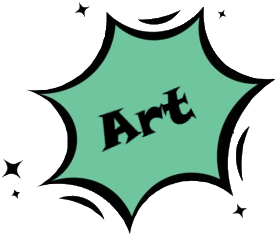
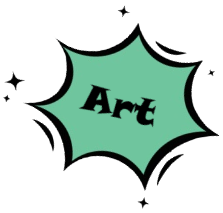
Updated the design of the first screen

diff --git a/full_trivia_gui.py b/full_trivia_gui.py
@@ -17,6 +17,8 @@ class QuestionUI:
         # create quiz base/window
         self._window = Tk()
         self._window.geometry("900x600")
+        self._window.title("Trivia Time!")
+        self._window.resizable(False, False)
 
         self._fframe = Frame(self._window, width=900, height=600)
         self._fframe.pack(fill=Y, anchor="center")
@@ -172,72 +174,69 @@ class QuestionUI:
 
     def first_screen(self):
         """docstring"""
-        x_pos = self._fframe.winfo_width() // 2
-        y_pos = self._fframe.winfo_height() // 2
-
-        homepg_img = Image.open("Assets/homepage_image.jpg")
-        homepg_resize = homepg_img.resize((900, 600))
-        homepg_final = ImageTk.PhotoImage(homepg_resize)
-
-        homepg_label = Label(self._fframe, image=homepg_final)
-        homepg_label.place(x=x_pos, y=y_pos)
-
-        blue_bckgrd = Label(homepg_label, width=113, height=33, bg="#AFEEEE")
-        blue_bckgrd.place(x=x_pos + 50, y=y_pos + 50, anchor="nw")
+        background_image = PhotoImage(file="Assets/background_image_with_badges.png")
+        background = Label(self._fframe, image=background_image)
+        background.image = background_image
+        background.place(x=0, y=0)
 
         books_img = Image.open("Assets/pink_bubble_books.png")
-        books_resize = books_img.resize((150, 150))
+        books_resize = books_img.resize((150, 118))
         books_final = ImageTk.PhotoImage(books_resize)
 
-        books_btn = Button(self._fframe, image=books_final, bg="#AFEEEE", relief="flat",
-                           activebackground="#AFEEEE", command=self.question_frame)
-        books_btn.place(x=75, y=75)
-
-        math_img = Image.open("Assets/red_bubble_math.png")
-        math_resize = math_img.resize((160, 160))
-        math_final = ImageTk.PhotoImage(math_resize)
-
-        math_btn = Button(self._fframe, image=math_final, bg="#AFEEEE", relief="flat",
-                          activebackground="#AFEEEE")
-        math_btn.place(x=70, y=365)
+        books_btn = Button(self._fframe, image=books_final, bg="#8FEBFF", relief="flat",
+                           activebackground="#8FEBFF", command=self.question_frame)
+        books_btn.image = books_final
+        books_btn.place(x=280, y=65)
 
         art_img = Image.open("Assets/green_bubble_art.png")
-        art_resize = art_img.resize((140, 140))
+        art_resize = art_img.resize((150, 143))
         art_final = ImageTk.PhotoImage(art_resize)
 
-        art_btn = Button(self._fframe, image=art_final, bg="#AFEEEE", relief="flat",
-                         activebackground="#AFEEEE")
-        art_btn.place(x=110, y=235)
+        art_btn = Button(self._fframe, image=art_final, bg="#8FEBFF", relief="flat",
+                         activebackground="#8FEBFF")
+        art_btn.image = art_final
+        art_btn.place(x=315, y=180)
+
+        math_img = Image.open("Assets/red_bubble_math.png")
+        math_resize = math_img.resize((180, 100))
+        math_final = ImageTk.PhotoImage(math_resize)
+
+        math_btn = Button(self._fframe, image=math_final, bg="#8FEBFF", relief="flat",
+                          activebackground="#8FEBFF")
+        math_btn.image = math_final
+        math_btn.place(x=280, y=310)
 
         science_img = Image.open("Assets/teal_bubble_science.png")
-        science_resize = science_img.resize((200, 200))
+        science_resize = science_img.resize((180, 186))
         science_final = ImageTk.PhotoImage(science_resize)
 
-        science_btn = Button(self._fframe, image=science_final, bg="#AFEEEE", relief="flat",
-                             activebackground="#AFEEEE")
-        science_btn.place(x=250, y=100)
+        science_btn = Button(self._fframe, image=science_final, bg="#8FEBFF", relief="flat",
+                             activebackground="#8FEBFF")
+        science_btn.image = science_final
+        science_btn.place(x=85, y=230)
 
         history_img = Image.open("Assets/yellow_bubble_history.png")
-        history_resize = history_img.resize((200, 200))
+        history_resize = history_img.resize((180, 151))
         history_final = ImageTk.PhotoImage(history_resize)
 
-        history_btn = Button(self._fframe, image=history_final, bg="#AFEEEE", relief="flat",
-                             activebackground="#AFEEEE")
-        history_btn.place(x=250, y=325)
+        history_btn = Button(self._fframe, image=history_final, bg="#8FEBFF", relief="flat",
+                             activebackground="#8FEBFF")
+        history_btn.image = history_final
+        history_btn.place(x=85, y=75)
 
         title_text = "It's Trivia Time!"
-        title_label = Label(self._fframe, text=title_text, font=("Snap ITC", 45), bg="#AFEEEE", wrap=350)
-        title_label.place(x=525, y=100)
+        title_label = Label(self._fframe, text=title_text, font=("Snap ITC", 36), bg="#8FEBFF", wrap=300)
+        title_label.place(x=550, y=75)
 
-        sub_text = "Click on a category to test your knowledge! Score at least a 7 out of 10 to earn a badge." \
-                   "\n\nKeep playing to earn badges!"
-        sub_text_label = Label(self._fframe, text=sub_text, font=("Ariel", 12), bg="#AFEEEE", wrap=340)
-        sub_text_label.place(x=490, y=350)
+        sub_text = "Click on a category to test your knowledge! \nScore at least a 7 out of 10 to win a game." \
+                   "\n\nKeep winning to earn badges!"
+        sub_text_label = Label(self._fframe, text=sub_text, font=("Arial", 11), bg="#8FEBFF", wrap=340)
+        sub_text_label.place(x=490, y=270)
 
-        name_label = Label(self._fframe, text="Enter Player Name", font=("Ariel", 12), bg="#AFEEEE")
-        name_label.place(x=575, y=450)
-        player_name = Entry(self._fframe, relief="flat", justify="center", font=("Ariel", 16))
-        player_name.place(x=525, y=475)
+        name_label = Label(self._fframe, text="Enter Player Name", font=("Arial", 11), bg="#FAF9F6")
+        name_label.place(x=580, y=360)
+        player_name = Entry(self._fframe, relief="flat", justify="center", font=("Arial", 14))
+        player_name.place(x=530, y=390)
 
         self._window.mainloop()
         return
